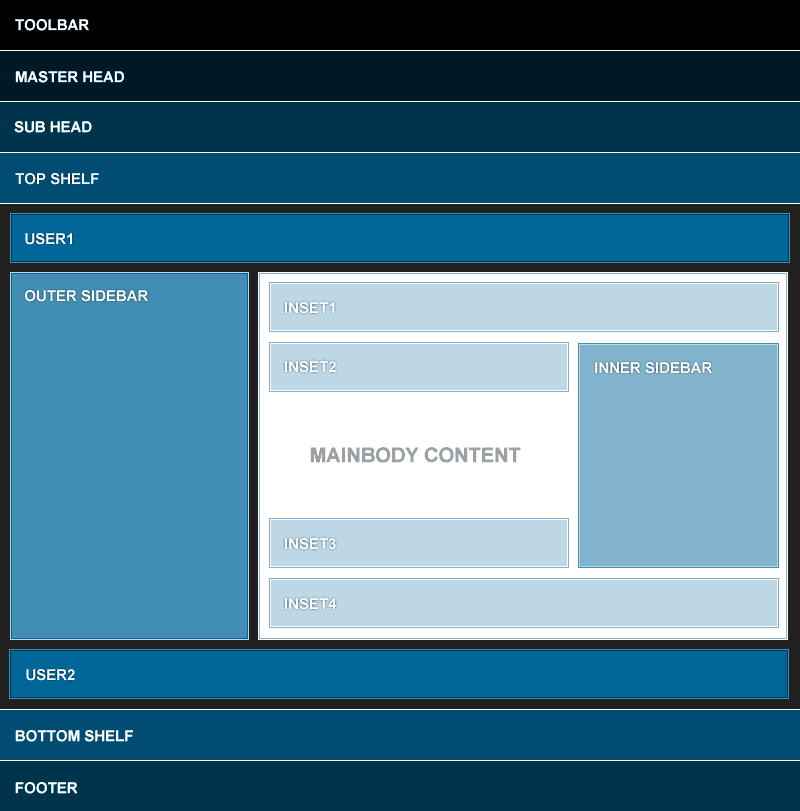
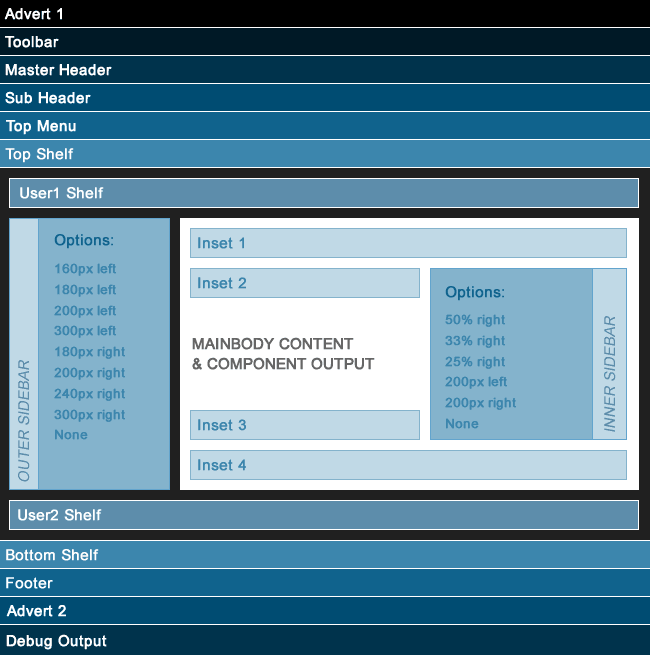
Updated the blocks and position references.

diff --git a/tooltips/visual-positions.html b/tooltips/visual-positions.html
@@ -1,1 +1,1 @@
-<img src="../administrator/components/com_configurator/images/visual-reference-positions.png" alt="Visual Reference - Module Positions" height="684" width="800" style="margin:0; padding:0; text-align:center;" />
+<img src="../administrator/components/com_configurator/images/visual-reference-positions.png" alt="Visual Reference - Module Positions" style="margin:0; padding:0; text-align:center;" />

diff --git a/tooltips/visual-blocks.html b/tooltips/visual-blocks.html
@@ -1,1 +1,1 @@
-<img src="../administrator/components/com_configurator/images/visual-reference-blocks.png" alt="Visual Reference - Blocks" height="608" width="600" style="margin:0; padding:0; text-align:center;" />
+<img src="../administrator/components/com_configurator/images/visual-reference-blocks.png" alt="Visual Reference - Blocks Reference" style="margin:0; padding:0; text-align:center;" />

diff --git a/js/functions.js.php b/js/functions.js.php
@@ -691,8 +691,8 @@ jQuery.noConflict();
 				autoOpen: true,
 				bgiframe: true,
 				modal: true,
-				width: 810,
-				height: 734,
+				width: 661,
+				height: 730,
 				title: $(this).attr('title'),
 				zIndex: 5001,
 				close: function(){
